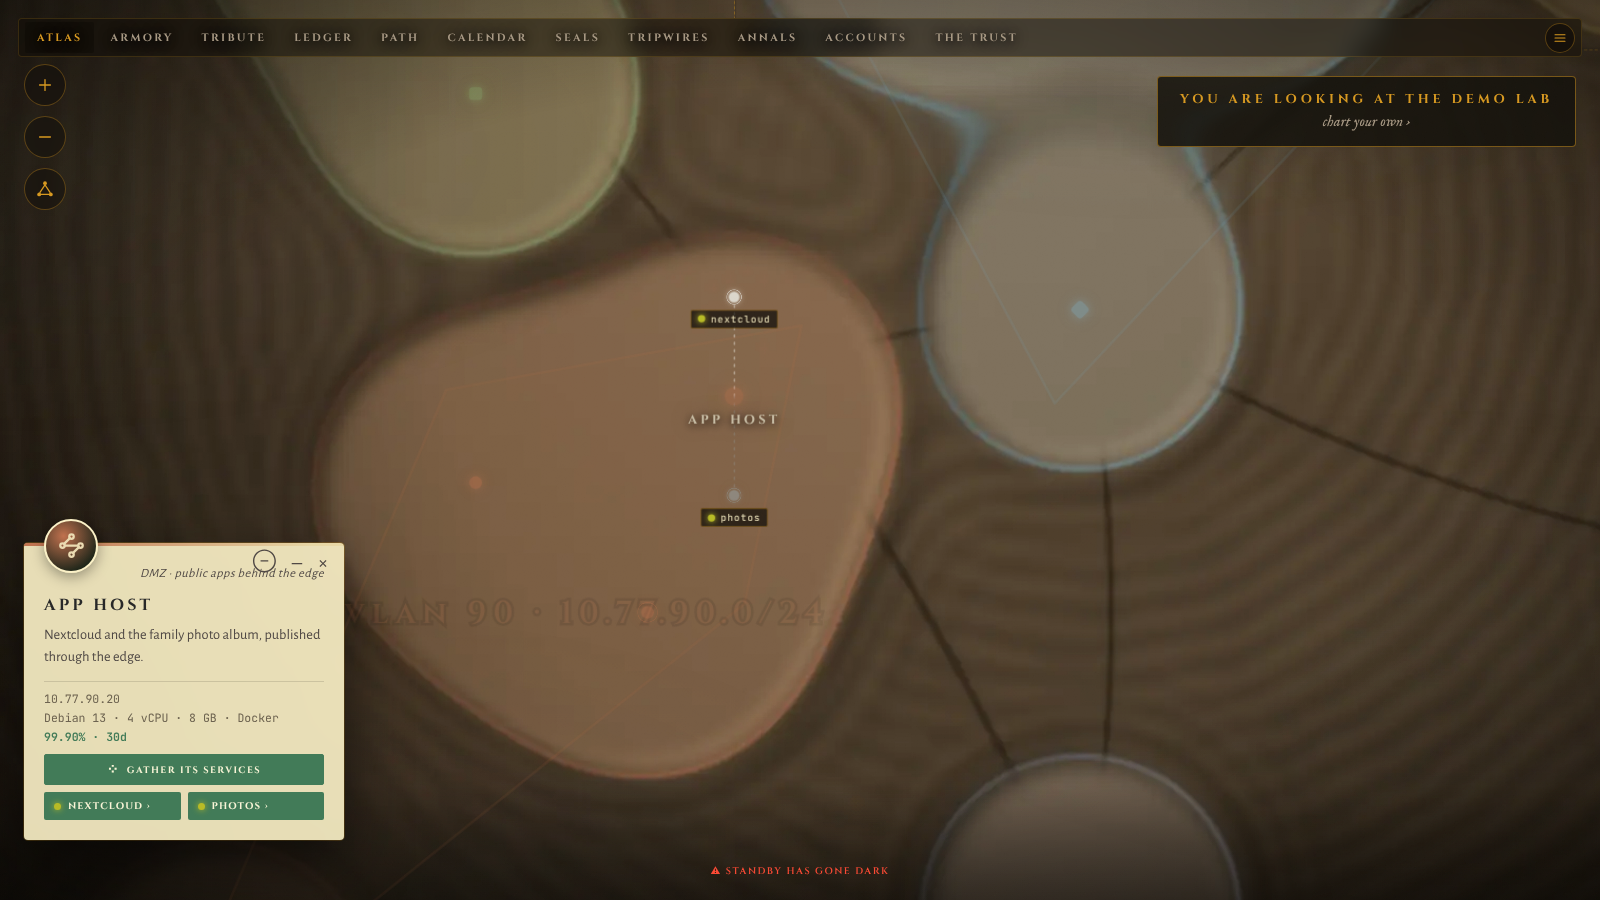
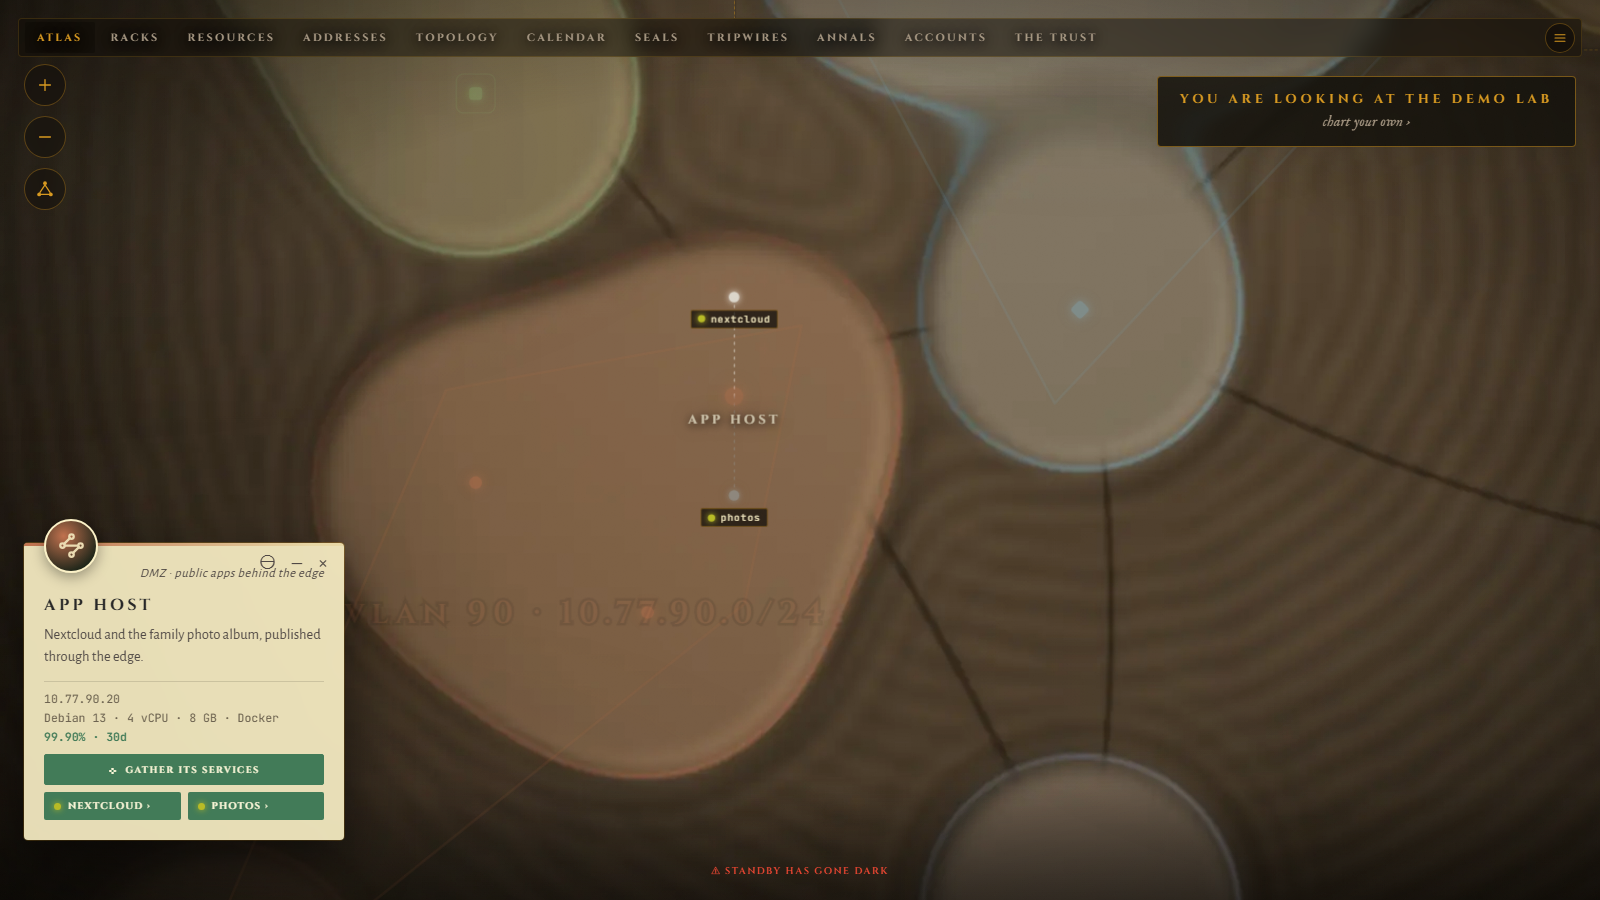
README screenshot and docs follow the new names

diff --git a/docs/architecture.md b/docs/architecture.md
@@ -322,9 +322,9 @@ flowchart TD
   imports, so load order is the only coupling and a missing module degrades to
   a no-op (`A.buildX?.()`). `tools/check-boot.mjs` checks that every function
   the boot sequence calls is defined somewhere.
-- **Scenes** are full-screen views over the map (the address ledger, the
-  rack, the calendar, certificates, decoys, the event history, the network
-  path, accounts). `scene.js` provides `makeScene({ id, closeId, build,
+- **Scenes** are full-screen views over the map (addresses, the
+  racks, resources, the calendar, certificates, tripwires, the event history,
+  the topology, accounts). `scene.js` provides `makeScene({ id, closeId, build,
   onClose })` so each module supplies only what it draws.
 - **Pure models** (`camera-model.js`, `calendar-model.js`, `ipam.js`,
   `project.js`, `rack-model.js`) have no DOM access and are unit tested with
